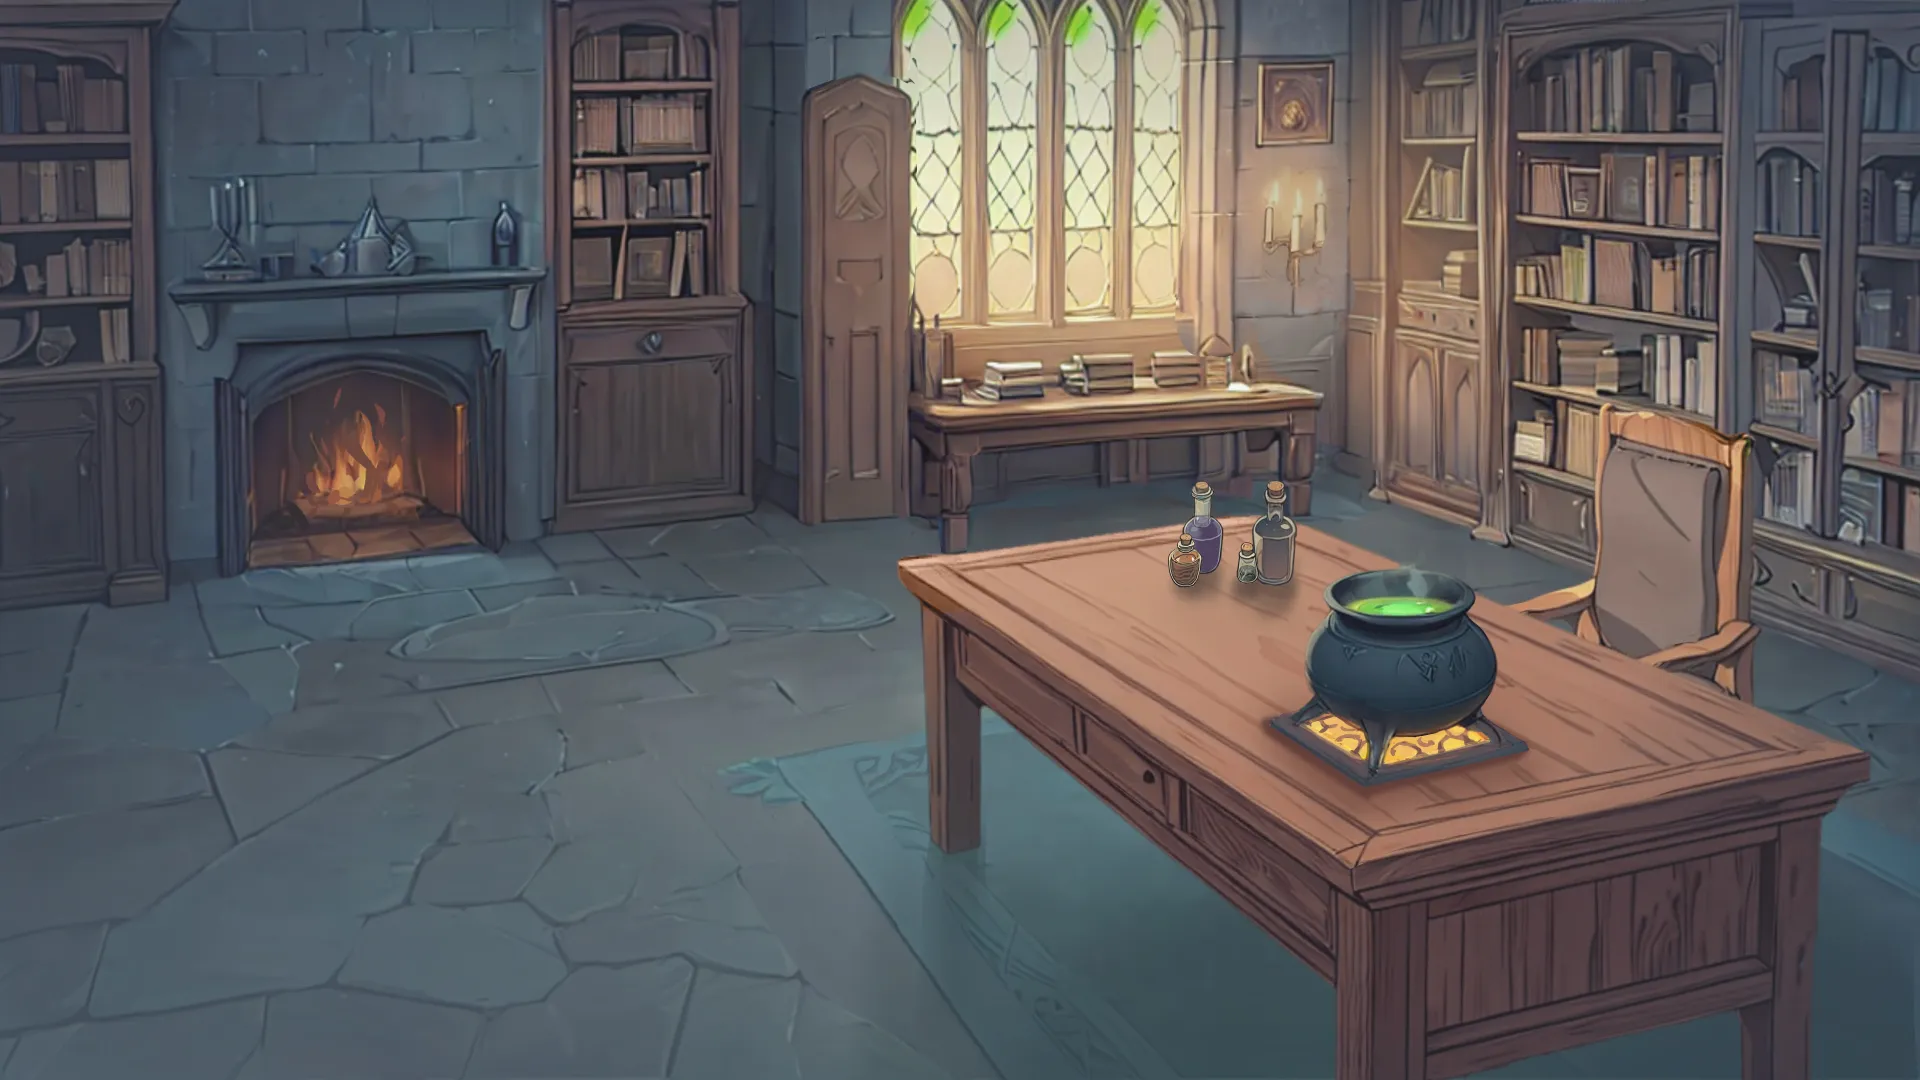
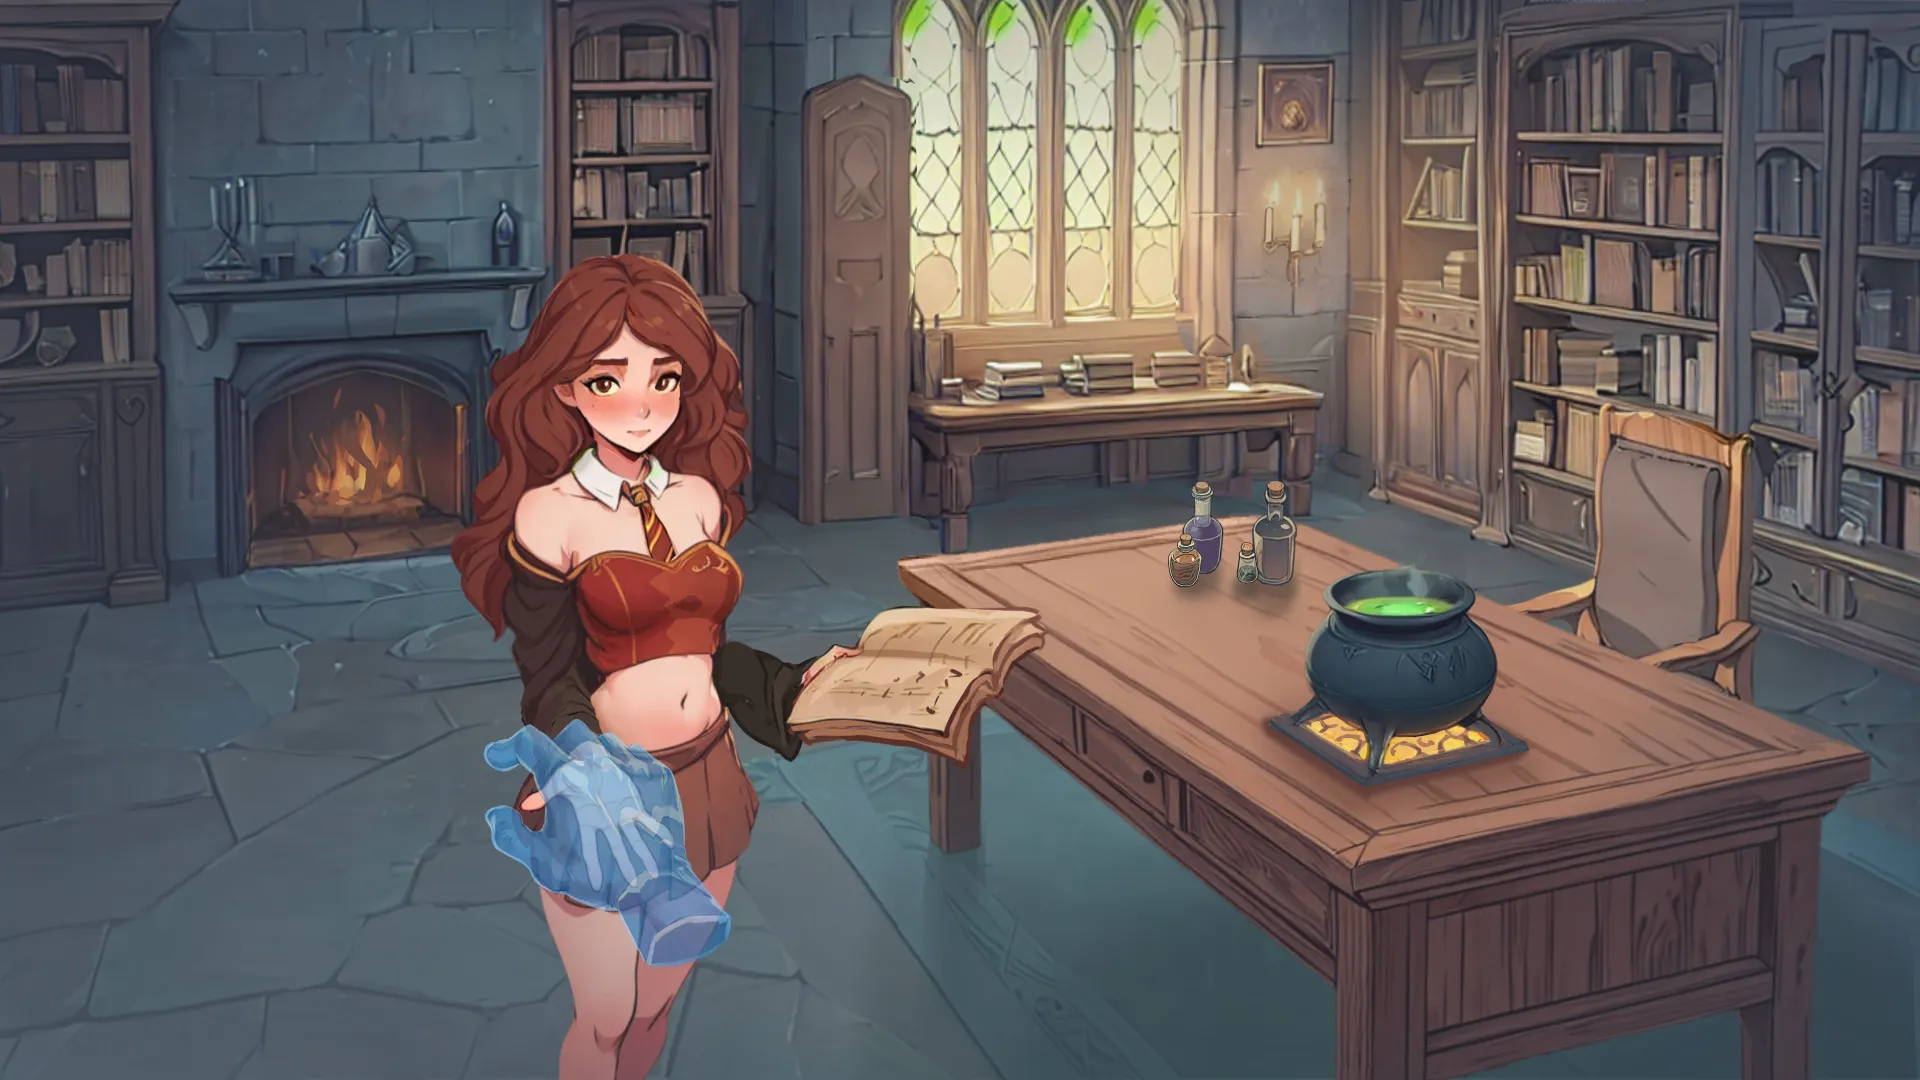
clean novel transitions

Changed region(s): [[0.2188, 0.2139, 0.5625, 1.0]]

diff --git a/modules/NOVEL.ts b/modules/NOVEL.ts
@@ -1,3 +1,4 @@
+// > Sure {event_name} (n1-next-scene)
 declare global {
     type Condition = {
         getText: () => string
@@ -77,6 +78,7 @@ class Novel {
         layerOne: {},
         layerTwo: {},
         activeLayer: "layerOne",
+        active_layer_images: "layerOne", // separate images transition logic
         showChoiceBox: false,
         showText: true,
         lastContinueMS: -Infinity, // 0 not allow to continue on adult check :)
@@ -103,26 +105,17 @@ class Novel {
             } else {
                 lineArray = value.split("\n") // for vercel environment
             }
-            let images: string[] = []
             const step: Step = {
                 images: [],
                 text: "",
                 choices: [],
             }
             lineArray.forEach((line, index) => {
-                // handle images
-                if (line.startsWith("# ")) {
-                    let cleanLine = line.substring(2)
-                    images = cleanLine.split(", ")
-                    return
-                }
-                // choice lines doesnt immideately create a step, this is where we push step with all collected choices and previous text
+                // choice lines doesnt immideately create a step
                 let createChoiceStep = () => {
-                    if (step.choices.length > 0) {
-                        _.reverse(step.choices)
-                        this.mds_steps[md_file_name].push(_.cloneDeep(step))
-                        step.choices = []
-                    }
+                    _.reverse(step.choices)
+                    this.mds_steps[md_file_name].push(_.cloneDeep(step))
+                    step.choices = []
                 }
                 // handle choices
                 if (line.startsWith(">")) {
@@ -174,16 +167,21 @@ class Novel {
                     }
                     step.choices.push(choiceObject)
 
-                    if (lineArray.length != index + 1) return
+                    if (lineArray.length !== index + 1) return
                     else {
                         createChoiceStep()
                         return
                     }
                 }
-                // here create two steps at the same time (after choices)
-                createChoiceStep()
+                if (step.choices.length > 0) createChoiceStep()
+
+                // handle images
+                if (line.startsWith("# ")) {
+                    let cleanLine = line.substring(2)
+                    step.images = cleanLine.split(", ")
+                    return
+                }
                 step.text = line
-                step.images = images
                 this.mds_steps[md_file_name].push(_.cloneDeep(step))
             })
         })
@@ -293,12 +291,20 @@ class Novel {
                 return
             if (nextStep) {
                 if (nextStep.text !== step.text) this.echo.showText = false
-                let delay = 50
-                if (!_.isEqual(step.images, nextStep.images)) {
-                    delay = CONFIG.novel.transitionSpeed * 0.5
+                const delay = CONFIG.novel.transitionSpeed * 0.5
+                if (
+                    this.echo.layerOne.x !== this.echo.layerTwo.x ||
+                    this.echo.layerOne.y !== this.echo.layerTwo.y
+                ) {
                     this.echo.activeLayer = "layerTwo"
                     setTimeout(() => {
                         this.echo.activeLayer = "layerOne"
+                    }, delay)
+                }
+                if (!_.isEqual(step.images, nextStep.images)) {
+                    this.echo.active_layer_images = "layerTwo"
+                    setTimeout(() => {
+                        this.echo.active_layer_images = "layerOne"
                     }, delay)
                 }
                 setTimeout(() => {
@@ -381,8 +387,8 @@ class Novel {
     }
     updateData() {
         let layer, nextlayer
-        layer = NOVEL.echo.layerOne
-        nextlayer = NOVEL.echo.layerTwo
+        layer = this.echo.layerOne
+        nextlayer = this.echo.layerTwo
         const steps = this.getSteps()
         if (!steps) return
         const { step, nextStep } = steps

diff --git a/interface/novel/novel.vue b/interface/novel/novel.vue
@@ -6,16 +6,23 @@ div(
 )
     //- layer one always on - content switched when layer two fully appears
     //- then layer two immidealtly turns off again and preloads next step
-    div( mark="layer-one" )
+    div( mark="layer-one-images" )
         images( layer="layerOne" )
-        dialogue( layer="layerOne" )
     tn: div(
         mark="layer-two"
         v-if="NOVEL.echo.activeLayer === 'layerTwo'"
     )
-        images( layer="layerTwo" )
         dialogue( layer="layerTwo" )
+    tn: div(
+        mark="layer-two-images"
+        v-if="NOVEL.echo.active_layer_images === 'layerTwo'"
+    )
+        images( layer="layerTwo" )
+    div( mark="layer-one" )
+        dialogue( layer="layerOne" )
+
     div(
+        mark="buttons"
         :style="style_object"
         class="absolute left-[35px] top-[1005px] flex gap-10"
         v-if="NOVEL.echo.active_md !== 'adult'"
@@ -54,12 +61,14 @@ const style_object = computed(() => {
     transition: v-bind(transitionSpeed);
 }
 .default-leave-active {
-    transition: opacity 0ms ease;
+    transition: none;
 }
-.default-enter-from {
+.default-enter-from,
+.default-leave-to {
     opacity: 0;
 }
-.default-leave-to {
+.default-enter-to,
+.default-leave-from {
     opacity: 1;
 }
 </style>

diff --git a/interface/novel/dialogue.vue b/interface/novel/dialogue.vue
@@ -1,16 +1,16 @@
 <template lang="pug">
 div(:style="mainStyle")
-  choices(:layer="layer")
-  textBox(v-if="NOVEL.echo[layer].text !== ''" :layer="layer")
+    choices(:layer="layer")
+    tn: textBox(v-if="NOVEL.echo[layer].text !== ''" :layer="layer")
 </template>
 <script setup lang="ts">
 const props = defineProps(["layer"])
 const mainStyle = computed(() => {
     return {
         filter: `
-      hue-rotate(${NOVEL.echo[props.layer].hue}deg) 
-      brightness(${NOVEL.echo[props.layer].brightness})
-    `,
+            hue-rotate(${NOVEL.echo[props.layer].hue}deg) 
+            brightness(${NOVEL.echo[props.layer].brightness})
+        `,
     }
 })
 </script>

diff --git a/interface/novel/images.vue b/interface/novel/images.vue
@@ -1,11 +1,11 @@
 <template lang="pug">
 div
-  img(
-      v-for="(value, index) in NOVEL.echo[props.layer].images"
-      :key="index"
-      :src="ASSETS.webp_paths[value]"
-      draggable="false"
-      class="absolute -z-10"
+    img(
+        v-for="(value, index) in NOVEL.echo[props.layer].images"
+        :key="index"
+        :src="ASSETS.webp_paths[value]"
+        draggable="false"
+        class="absolute -z-10"
     )
 </template>
 <script setup lang="ts">

diff --git a/modules/DEVMODE.ts b/modules/DEVMODE.ts
@@ -26,6 +26,11 @@ class DevMode {
                     console.log(WORLD.hover)
                 }
             }
+            if (CONTEXT.echo.novel) {
+                // console.log("-------- ", LOOP.iterations, " --------")
+                // console.log("layer_one.text: ", NOVEL.echo.layerOne.text)
+                // console.log("layer_two.text: ", NOVEL.echo.layerTwo.text)
+            }
         }
     }
 }

diff --git a/interface/novel/text-box.vue b/interface/novel/text-box.vue
@@ -9,8 +9,8 @@ div(class="absolute" :style="textBoxStyle")
   )
     div(class="w-full h-full rounded-3xl bg-gradient-to-b from-dark-gunmetal to-space-cadet")
   //- text
-  transition(type="fast"): div(
-    v-if="NOVEL.echo.showText"
+  div(
+    v-show="NOVEL.echo.showText"
     class="my-7 mx-11 leading-10 font-semibold text-[28px] text-slate-300"
   )
     span(

diff --git a/boot/start.ts b/boot/start.ts
@@ -57,7 +57,7 @@ async function start() {
         EVENTS.emit("startScene", { name: "n1-start" })
     }
 
-    // EVENTS.emit("startScene", { name: "h1-table" })
+    EVENTS.emit("startScene", { name: "h1-room" })
 
     // delay to make transition work and no world shortly shown
     TIME.after_iterations(10, () => (CONTEXT.echo.loading = false))

diff --git a/assets/scenes/h1-room.md b/assets/scenes/h1-room.md
@@ -3,90 +3,97 @@
 # h1-room-forest, h1-hand-transparent
 
 Almost there, hold a bit tighter!
-# h1-room, h1-hermione, h1-hand-transparent
+# h1-room
 
 Well, hi.
 > ...
-
 Spirit?
 > Gulp. Yes, yes. Um... hi.
 Are you ok? Not get used to this reality yet?
 > No, the opposite. You look very familiar, you know.
-# h1-room, h1-hermione, h1-hermione-surprised, h1-hand-transparent
+# h1-room, h1-hermione-surprised
 Really?
 > Yep. Didn't expect to see you here though.
 Um... Do you know me?
 > I guess. Hermione?
-# h1-room, h1-hermione, h1-hermione-super-surprised, h1-hand-transparent
+# h1-room,  h1-hermione-super-surprised
 WHAT!? How?
-# h1-room, h1-hermione, h1-hermione-laughing, h1-hand-transparent
+# h1-room, h1-hermione-laughing
 Oh... You are a magical spirit after all.
-# h1-room, h1-hermione, h1-hand-transparent
+# h1-room
 Anyway, I summoned you for a reason.
 It's a bit embarrassing for me, but I really need this.
-# h1-room, h1-hermione, h1-hermione-speaking, h1-hand-transparent
+# h1-room, h1-hermione-speaking
 You see, when I started to work as a professor, I thought with my knowledge it would be easy.
 But big part of work is about managing students behaivior, which is a nightmare.
-# h1-room, h1-hermione, h1-hand-transparent
+# h1-room
 > Wait, you working as a professor now?
-# h1-room, h1-hermione, h1-hermione-speaking, h1-hand-transparent
+# h1-room, h1-hermione-speaking
 Yep, I was thinking to work for the Ministry of Magic, but decided to go back to the Hogwarts, because there is so many good memories.
+# h1-room
 So many adventures, but mostly tutor sessions with professor Dumbledore...
-# h1-room, h1-hermione, h1-hand-transparent
 > Hmmm... I see. By the way, is this a ragular uniform for a professor now?
-Sure, by the order of professor Dumbledor when I were a student.
+Sure. It was set by the order of professor Dumbledor at the time when I was a student.
 > Right, right. So, how long do we need to hold hands?
-# h1-room, h1-hermione, h1-hermione-surprised, h1-hand-transparent
+# h1-room, h1-hermione-surprised
 Oh, sorry! Forgot about that. I think you are stable and can let go.
-# h1-room, h1-hermione-hands-back
+# h1-room-hands-back
 So as I was saying... Professor's life is not easy at all.
 And, and...
 > What is it?
-# h1-room, h1-hermione-hands-back, h1-hermione-closed-eyes-speaking
+# h1-room-hands-back, h1-hermione-closed-eyes-speaking
 I'm at a very bad position. I'm barely holding.
-# h1-room, h1-hermione-hands-back
-I know at this rate I'm gonna be fired soon.
+# h1-room-hands-back
+At this rate I'm gonna be fired soon.
 > You are smart as hell, you gonna be fine.
-# h1-room, h1-hermione-hands-back, h1-hermione-closed-eyes-speaking
-Thanks, but no. Managing teenagers making me angry. Like, really angry and exhausted.
-# h1-room, h1-hermione-hands-back
-I dont want to be fired, but it's not only about me, but about all professors that worked before me and their legacy. I can not let them down.
-> Hmmm... Still dont get why you need me.
-# h1-room, h1-hermione-hands-back, h1-hermione-speaking
-So I was searching for what could help me and I found a recipe for a potion.
+# h1-room-hands-back, h1-hermione-closed-eyes-speaking
+Thanks, but no. Managing teenagers making me angry. Like, re-e-ally angry.
+I cant make my students concentrate and I'm getting so exhausted trying.
+> I can see why they can't concentrate.
+# h1-room-hands-back
+Huh?
+Anyway, I dont want to be fired, but it's not only about me!
+It is about all the professors that worked before me and their legacy. I can not let them down!
+> Hmmm... I just don't get why you need me.
+# h1-room-hands-back, h1-hermione-speaking
+So I was searching for what could help me and I found a recipe for a magnificent potion.
 This potion is like Felix Felicis but without by-effects! And it's even more powerful and last longer!
-# h1-room, h1-hermione-hands-back
+# h1-room-hands-back
 I'm pretty sure it's my only chance not to loose a job.
 > Aaand... Why you need me?
-# h1-room, h1-hermione-hands-back, h1-hermione-speaking
+# h1-room-hands-back, h1-hermione-speaking
 Right, right. So, one of the ingridients is a special essence of a spirit.
 The essence is... Well. Khm-khm...
-# h1-room, h1-hermione-hands-back, h1-hermione-speaking
+# h1-room-hands-back, h1-hermione-speaking
 It's an analogical for a human semen!
-# h1-room, h1-hermione-hands-back, h1-hermione-surprised
+# h1-room-hands-back, h1-hermione-surprised
 Eh.. I cant believe I said that.
 > Oh my... Ok, ok. I see. Well, I think I could help, yeah.
 Really?!
 > Sure.
-# h1-room, h1-hermione-hands-back, h1-hermione-laughing
+# h1-room-hands-back, h1-hermione-laughing
 Oh, I was so nervous that you gonna refuse. Thank you so much! 
-I've read a lot about how to serve... I mean, how to extract the essence.
-# h1-room, h1-hermione-hands-back
+I've read a all the books about how to serve... I mean, how to extract the essence.
+# h1-room-hands-back
 So don't you worry. Shall we start right away?
 >> Oh, absolutely! (h1-table)
 > I would like to know more about how you gonna do it. You know, just in case.
-# h1-room, h1-hermione-hands-back, h1-hermione-speaking
-Sure, I'm gonna sit on the edge of the table and...
-# h1-room, h1-hermione-hands-back
+# h1-room-hands-back, h1-hermione-speaking
+Sure, I'm gonna sit on... Khm-khm...
+Sit on the edge of the table and...
+# h1-room-hands-back
 I'm gonna use my hands. If it's ok with you.
 > Just hands?
-# h1-room, h1-hermione-hands-back, h1-hermione-surprised
-What are you hinting at? I'm a good girl!
+# h1-room-hands-back, h1-hermione-surprised
+What are you hinting at? I just need an essence.
+I'm not that kind of a girl who would jump an a random ... um.. sausage.
+> Sausage?
+You know what I mean!
 Besides, you are innormasly huge, so... Even if I would...
-# h1-room, h1-hermione-hands-back, h1-hermione-closed-eyes-speaking
-Anything besides hands is just physically impossible.
-# h1-room, h1-hermione-hands-back, h1-hermione-surprised
+# h1-room-hands-back, h1-hermione-closed-eyes-speaking
+It would be just physically impossible.
+# h1-room-hands-back, h1-hermione-surprised
 It's not that I would want that of course.
-# h1-room, h1-hermione-hands-back
+# h1-room-hands-back
 So, ready to start?
 >> Oh, absolutely! (h1-table)

diff --git a/assets/scenes/h1-start.md b/assets/scenes/h1-start.md
@@ -33,7 +33,7 @@ Yeah, defenetly some energy is flowing. But something is wrong, the summoning is
 Did you put your hand on mine?
 > Not exactly.
 Please, please, please! I... Let me see this page...
-Oh wow, its... All right, I need this. Khm-khm...
+Oh wow, its... Khm-khm...
 I'm a slut. I live for craving your... your balls.
 Spirit?
 > Damn, convincing. Fine.
